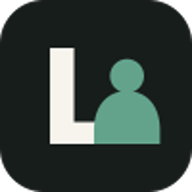
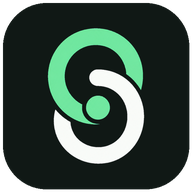
feat(erp): brand workspace as LAW& OS

diff --git a/apps/erp/app/globals.css b/apps/erp/app/globals.css
@@ -1832,29 +1832,80 @@ svg {
   display: inline-flex;
   flex: 0 0 auto;
   align-items: center;
-  gap: 9px;
   text-decoration: none;
 }
 
-.staff-brand-mark {
-  color: var(--ink);
-  font-family: Georgia, "Times New Roman", serif;
-  font-size: 1.17rem;
-  font-weight: 800;
-  letter-spacing: -.055em;
+.lawand-os-brand {
+  display: inline-flex;
+  min-width: 0;
+  align-items: center;
+  gap: 10px;
 }
 
-.staff-brand-mark span {
+.lawand-os-symbol {
+  position: relative;
+  display: grid;
+  width: 34px;
+  height: 34px;
+  flex: 0 0 auto;
+  place-items: center;
+  overflow: hidden;
+  border: 1px solid rgb(99 230 167 / 24%);
+  border-radius: 10px;
+  background:
+    radial-gradient(circle at 50% 15%, rgb(99 230 167 / 12%), transparent 58%),
+    #101815;
+  box-shadow:
+    0 7px 18px rgb(12 48 34 / 13%),
+    inset 0 0 0 1px rgb(255 255 255 / 3%);
+}
+
+.lawand-os-symbol img {
+  width: 100%;
+  height: 100%;
+  object-fit: contain;
+  transform: scale(1.09);
+}
+
+.lawand-os-copy {
+  display: grid;
+  min-width: 0;
+  gap: 1px;
+  white-space: nowrap;
+}
+
+.lawand-os-name {
+  color: var(--ink);
+  font-size: .84rem;
+  font-weight: 880;
+  letter-spacing: -.045em;
+  line-height: 1.05;
+}
+
+.lawand-os-name > span,
+.lawand-os-name > strong {
   color: var(--brand);
 }
 
-.staff-brand-product {
-  padding-left: 9px;
-  border-left: 1px solid var(--line-strong);
+.lawand-os-name > strong {
+  font-size: .72rem;
+  letter-spacing: .08em;
+}
+
+.lawand-os-copy small {
   color: var(--muted);
-  font-size: .68rem;
-  font-weight: 850;
-  letter-spacing: .14em;
+  font-size: .5rem;
+  font-weight: 720;
+  letter-spacing: .045em;
+  line-height: 1.2;
+}
+
+.staff-brand:hover .lawand-os-symbol,
+.staff-brand:focus-visible .lawand-os-symbol {
+  border-color: rgb(99 230 167 / 52%);
+  box-shadow:
+    0 8px 24px rgb(43 169 111 / 18%),
+    inset 0 0 0 1px rgb(255 255 255 / 5%);
 }
 
 .staff-primary-nav {
@@ -5212,6 +5263,10 @@ a.inbound-customer:hover { text-decoration: underline; }
   min-height: 100vh;
   place-items: center;
   padding: 32px 20px;
+  background-image:
+    linear-gradient(color-mix(in srgb, var(--brand) 4%, transparent) 1px, transparent 1px),
+    linear-gradient(90deg, color-mix(in srgb, var(--brand) 4%, transparent) 1px, transparent 1px);
+  background-size: 32px 32px;
 }
 
 .auth-card {
@@ -5227,6 +5282,30 @@ a.inbound-customer:hover { text-decoration: underline; }
   margin-bottom: 10px;
   font-size: clamp(2rem, 8vw, 2.8rem);
   letter-spacing: -.05em;
+}
+
+.auth-brand-lockup {
+  margin-bottom: 32px;
+}
+
+.auth-brand-lockup .lawand-os-symbol {
+  width: 48px;
+  height: 48px;
+  border-radius: 14px;
+}
+
+.auth-brand-lockup .lawand-os-name {
+  font-size: 1.08rem;
+}
+
+.auth-brand-lockup .lawand-os-name > strong {
+  font-size: .92rem;
+}
+
+.auth-brand-lockup .lawand-os-copy small {
+  margin-top: 2px;
+  font-size: .57rem;
+  letter-spacing: .065em;
 }
 
 .auth-lead {
@@ -7790,6 +7869,7 @@ a.inbound-customer:hover { text-decoration: underline; }
 
 @media (max-width: 1040px) {
   .staff-bar-leading { gap: 20px; }
+  .staff-brand .lawand-os-copy small { display: none; }
   .browser-notification-toggle { width: 38px; padding: 0; justify-content: center; }
   .browser-notification-toggle span { display: none; }
   .queue-controls { grid-template-columns: minmax(220px, 310px) minmax(0, 1fr); }
@@ -8216,9 +8296,8 @@ a.inbound-customer:hover { text-decoration: underline; }
 @media (max-width: 480px) {
   .staff-bar-leading { flex: 1 1 auto; }
   .staff-actions { flex: 0 0 auto; margin-left: auto; }
-  .staff-brand { gap: 6px; }
-  .staff-brand-mark { font-size: 1rem; }
-  .staff-brand-product { padding-left: 6px; font-size: .6rem; }
+  .staff-brand .lawand-os-copy { display: none; }
+  .staff-brand .lawand-os-symbol { width: 31px; height: 31px; border-radius: 9px; }
   .staff-primary-nav a { padding-inline: 7px; }
   .staff-primary-nav a span { display: none; }
   .staff-identity { display: flex; padding-left: 0; }

diff --git a/apps/erp/app/invitations/[token]/page.tsx b/apps/erp/app/invitations/[token]/page.tsx
@@ -2,13 +2,14 @@ import type { Metadata } from "next";
 import Link from "next/link";
 
 import { InvitationForm } from "../../_components/invitation-form";
+import { LawandOsBrand } from "../../_components/lawand-os-brand";
 import {
   inspectStaffInvitation,
   StaffGatewayError,
 } from "../../../lib/staff-auth";
 
 export const metadata: Metadata = {
-  title: "직원 초대 | 로앤 ERP",
+  title: "직원 초대",
 };
 
 export default async function InvitationPage({
@@ -28,7 +29,8 @@ export default async function InvitationPage({
     return (
       <main className="auth-shell">
         <section className="auth-card">
-          <p className="eyebrow">LAWAND ERP · INVITATION</p>
+          <LawandOsBrand className="auth-brand-lockup" />
+          <p className="eyebrow">STAFF INVITATION</p>
           <h1>초대 링크를 사용할 수 없습니다</h1>
           <p className="auth-lead">{message}</p>
           <Link className="primary-link" href="/login">
@@ -42,7 +44,8 @@ export default async function InvitationPage({
   return (
     <main className="auth-shell">
       <section className="auth-card invitation-card">
-        <p className="eyebrow">LAWAND ERP · INVITATION</p>
+        <LawandOsBrand className="auth-brand-lockup" />
+        <p className="eyebrow">STAFF INVITATION</p>
         <h1>직원 계정 만들기</h1>
         <p className="auth-lead">
           이름과 로그인 이메일을 확인한 뒤 비밀번호를 설정해 주세요. 업무 정보와

diff --git a/apps/erp/app/login/page.tsx b/apps/erp/app/login/page.tsx
@@ -2,10 +2,11 @@ import type { Metadata } from "next";
 import { redirect } from "next/navigation";
 
 import { LoginForm } from "../_components/login-form";
+import { LawandOsBrand } from "../_components/lawand-os-brand";
 import { getCurrentStaff } from "../../lib/session";
 
 export const metadata: Metadata = {
-  title: "직원 로그인 | 로앤 ERP",
+  title: "직원 로그인",
 };
 
 export default async function LoginPage({
@@ -19,7 +20,8 @@ export default async function LoginPage({
   return (
     <main className="auth-shell">
       <section className="auth-card">
-        <p className="eyebrow">LAWAND ERP · STAFF ONLY</p>
+        <LawandOsBrand className="auth-brand-lockup" />
+        <p className="eyebrow">SECURE STAFF ACCESS</p>
         <h1>직원 로그인</h1>
         <p className="auth-lead">
           초대받아 등록된 법무법인 로앤 직원만 이용할 수 있습니다.
@@ -31,7 +33,7 @@ export default async function LoginPage({
         ) : null}
         <LoginForm />
         <p className="auth-note">
-          계정이 없다면 ERP 관리자에게 직원 초대를 요청해 주세요.
+          계정이 없다면 LAW&amp; OS 관리자에게 직원 초대를 요청해 주세요.
         </p>
       </section>
     </main>

diff --git a/apps/erp/app/_components/staff-bar.tsx b/apps/erp/app/_components/staff-bar.tsx
@@ -5,6 +5,7 @@ import { logoutAction } from "../auth-actions";
 import { BrowserNotificationToggle } from "./browser-notification-toggle";
 import { ErpNav } from "./erp-nav";
 import { InboundCallIndicator } from "./inbound-call-indicator";
+import { LawandOsBrand } from "./lawand-os-brand";
 import { ReviewNotificationBridge } from "./review-notification-bridge";
 import { ThemeToggle } from "./theme-toggle";
 
@@ -13,9 +14,8 @@ export function StaffBar({ staff }: { staff: StaffPrincipal }) {
     <header className="app-header">
       <div className="staff-bar">
         <div className="staff-bar-leading">
-          <Link aria-label="로앤 ERP 상담 홈" className="staff-brand" href="/">
-            <span className="staff-brand-mark">LAW<span>&amp;</span></span>
-            <span className="staff-brand-product">ERP</span>
+          <Link aria-label="LAW& OS 상담 홈" className="staff-brand" href="/">
+            <LawandOsBrand />
           </Link>
           <ErpNav showStaff={staff.roles.includes("admin")} />
         </div>

diff --git a/apps/erp/app/_components/lawand-os-brand.tsx b/apps/erp/app/_components/lawand-os-brand.tsx
@@ -1,0 +1,19 @@
+import Image from "next/image";
+
+export function LawandOsBrand({ className = "" }: { className?: string }) {
+  const classes = ["lawand-os-brand", className].filter(Boolean).join(" ");
+
+  return (
+    <span className={classes}>
+      <span aria-hidden="true" className="lawand-os-symbol">
+        <Image alt="" height={512} src="/lawand-os-mark.png" width={512} />
+      </span>
+      <span className="lawand-os-copy">
+        <span className="lawand-os-name">
+          LAW<span>&amp;</span> <strong>OS</strong>
+        </span>
+        <small>AI Operating System for LAW&amp;</small>
+      </span>
+    </span>
+  );
+}

diff --git a/apps/erp/app/layout.tsx b/apps/erp/app/layout.tsx
@@ -4,8 +4,17 @@ import type { ReactNode } from "react";
 import "./globals.css";
 
 export const metadata: Metadata = {
-  title: "로앤 ERP",
-  description: "법무법인 로앤 내부 상담 운영 화면",
+  title: {
+    default: "LAW& OS — AI Operating System for LAW&",
+    template: "%s | LAW& OS",
+  },
+  description: "AI Operating System for LAW& — 법무법인 로앤 통합 운영 시스템",
+  applicationName: "LAW& OS",
+  appleWebApp: {
+    capable: true,
+    statusBarStyle: "black-translucent",
+    title: "LAW& OS",
+  },
   robots: {
     index: false,
     follow: false,

diff --git a/apps/erp/app/_components/browser-notification-toggle.tsx b/apps/erp/app/_components/browser-notification-toggle.tsx
@@ -93,7 +93,7 @@ export function BrowserNotificationToggle() {
     <button
       aria-label={
         permission === "denied"
-          ? "브라우저 설정에서 로앤 ERP 알림을 허용해 주세요"
+          ? "브라우저 설정에서 LAW& OS 알림을 허용해 주세요"
           : permission === "enabled"
             ? "브라우저 알림 끄기"
             : permission === "disabled"

diff --git a/apps/erp/public/notification-service-worker.js b/apps/erp/public/notification-service-worker.js
@@ -1,4 +1,4 @@
-/* 로앤 ERP 네이티브 알림의 안전한 이동 액션만 처리한다. Web Push 수신은 별도 범위다. */
+/* LAW& OS 네이티브 알림의 안전한 이동 액션만 처리한다. Web Push 수신은 별도 범위다. */
 self.addEventListener("install", (event) => {
   event.waitUntil(self.skipWaiting());
 });

diff --git a/apps/erp/app/reviews/[recordType]/[id]/page.tsx b/apps/erp/app/reviews/[recordType]/[id]/page.tsx
@@ -7,7 +7,7 @@ import { ReviewDetailWorkspace } from "../../../_components/review-detail-worksp
 import { StaffBar } from "../../../_components/staff-bar";
 
 export const metadata: Metadata = {
-  title: "후기 상세 | 로앤 ERP",
+  title: "후기 상세",
 };
 
 export default async function ReviewDetailPage({

diff --git a/apps/erp/app/clients/page.tsx b/apps/erp/app/clients/page.tsx
@@ -5,7 +5,7 @@ import { ClientDirectoryWorkspace } from "../_components/client-directory-worksp
 import { StaffBar } from "../_components/staff-bar";
 
 export const metadata: Metadata = {
-  title: "고객 찾기 | 로앤 ERP",
+  title: "고객 찾기",
 };
 
 export default async function ClientsPage() {

diff --git a/apps/erp/app/reviews/page.tsx b/apps/erp/app/reviews/page.tsx
@@ -11,7 +11,7 @@ import { ReviewWorkspace } from "../_components/review-workspace";
 import { StaffBar } from "../_components/staff-bar";
 
 export const metadata: Metadata = {
-  title: "후기관리 | 로앤 ERP",
+  title: "후기관리",
 };
 
 const emptySnapshot: ReviewManagementSnapshot = {

diff --git a/apps/erp/app/messages/page.tsx b/apps/erp/app/messages/page.tsx
@@ -11,7 +11,7 @@ import { MessageHubWorkspace } from "../_components/message-hub-workspace";
 import { StaffBar } from "../_components/staff-bar";
 
 export const metadata: Metadata = {
-  title: "문자 | 로앤 ERP",
+  title: "문자",
 };
 
 export const dynamic = "force-dynamic";
